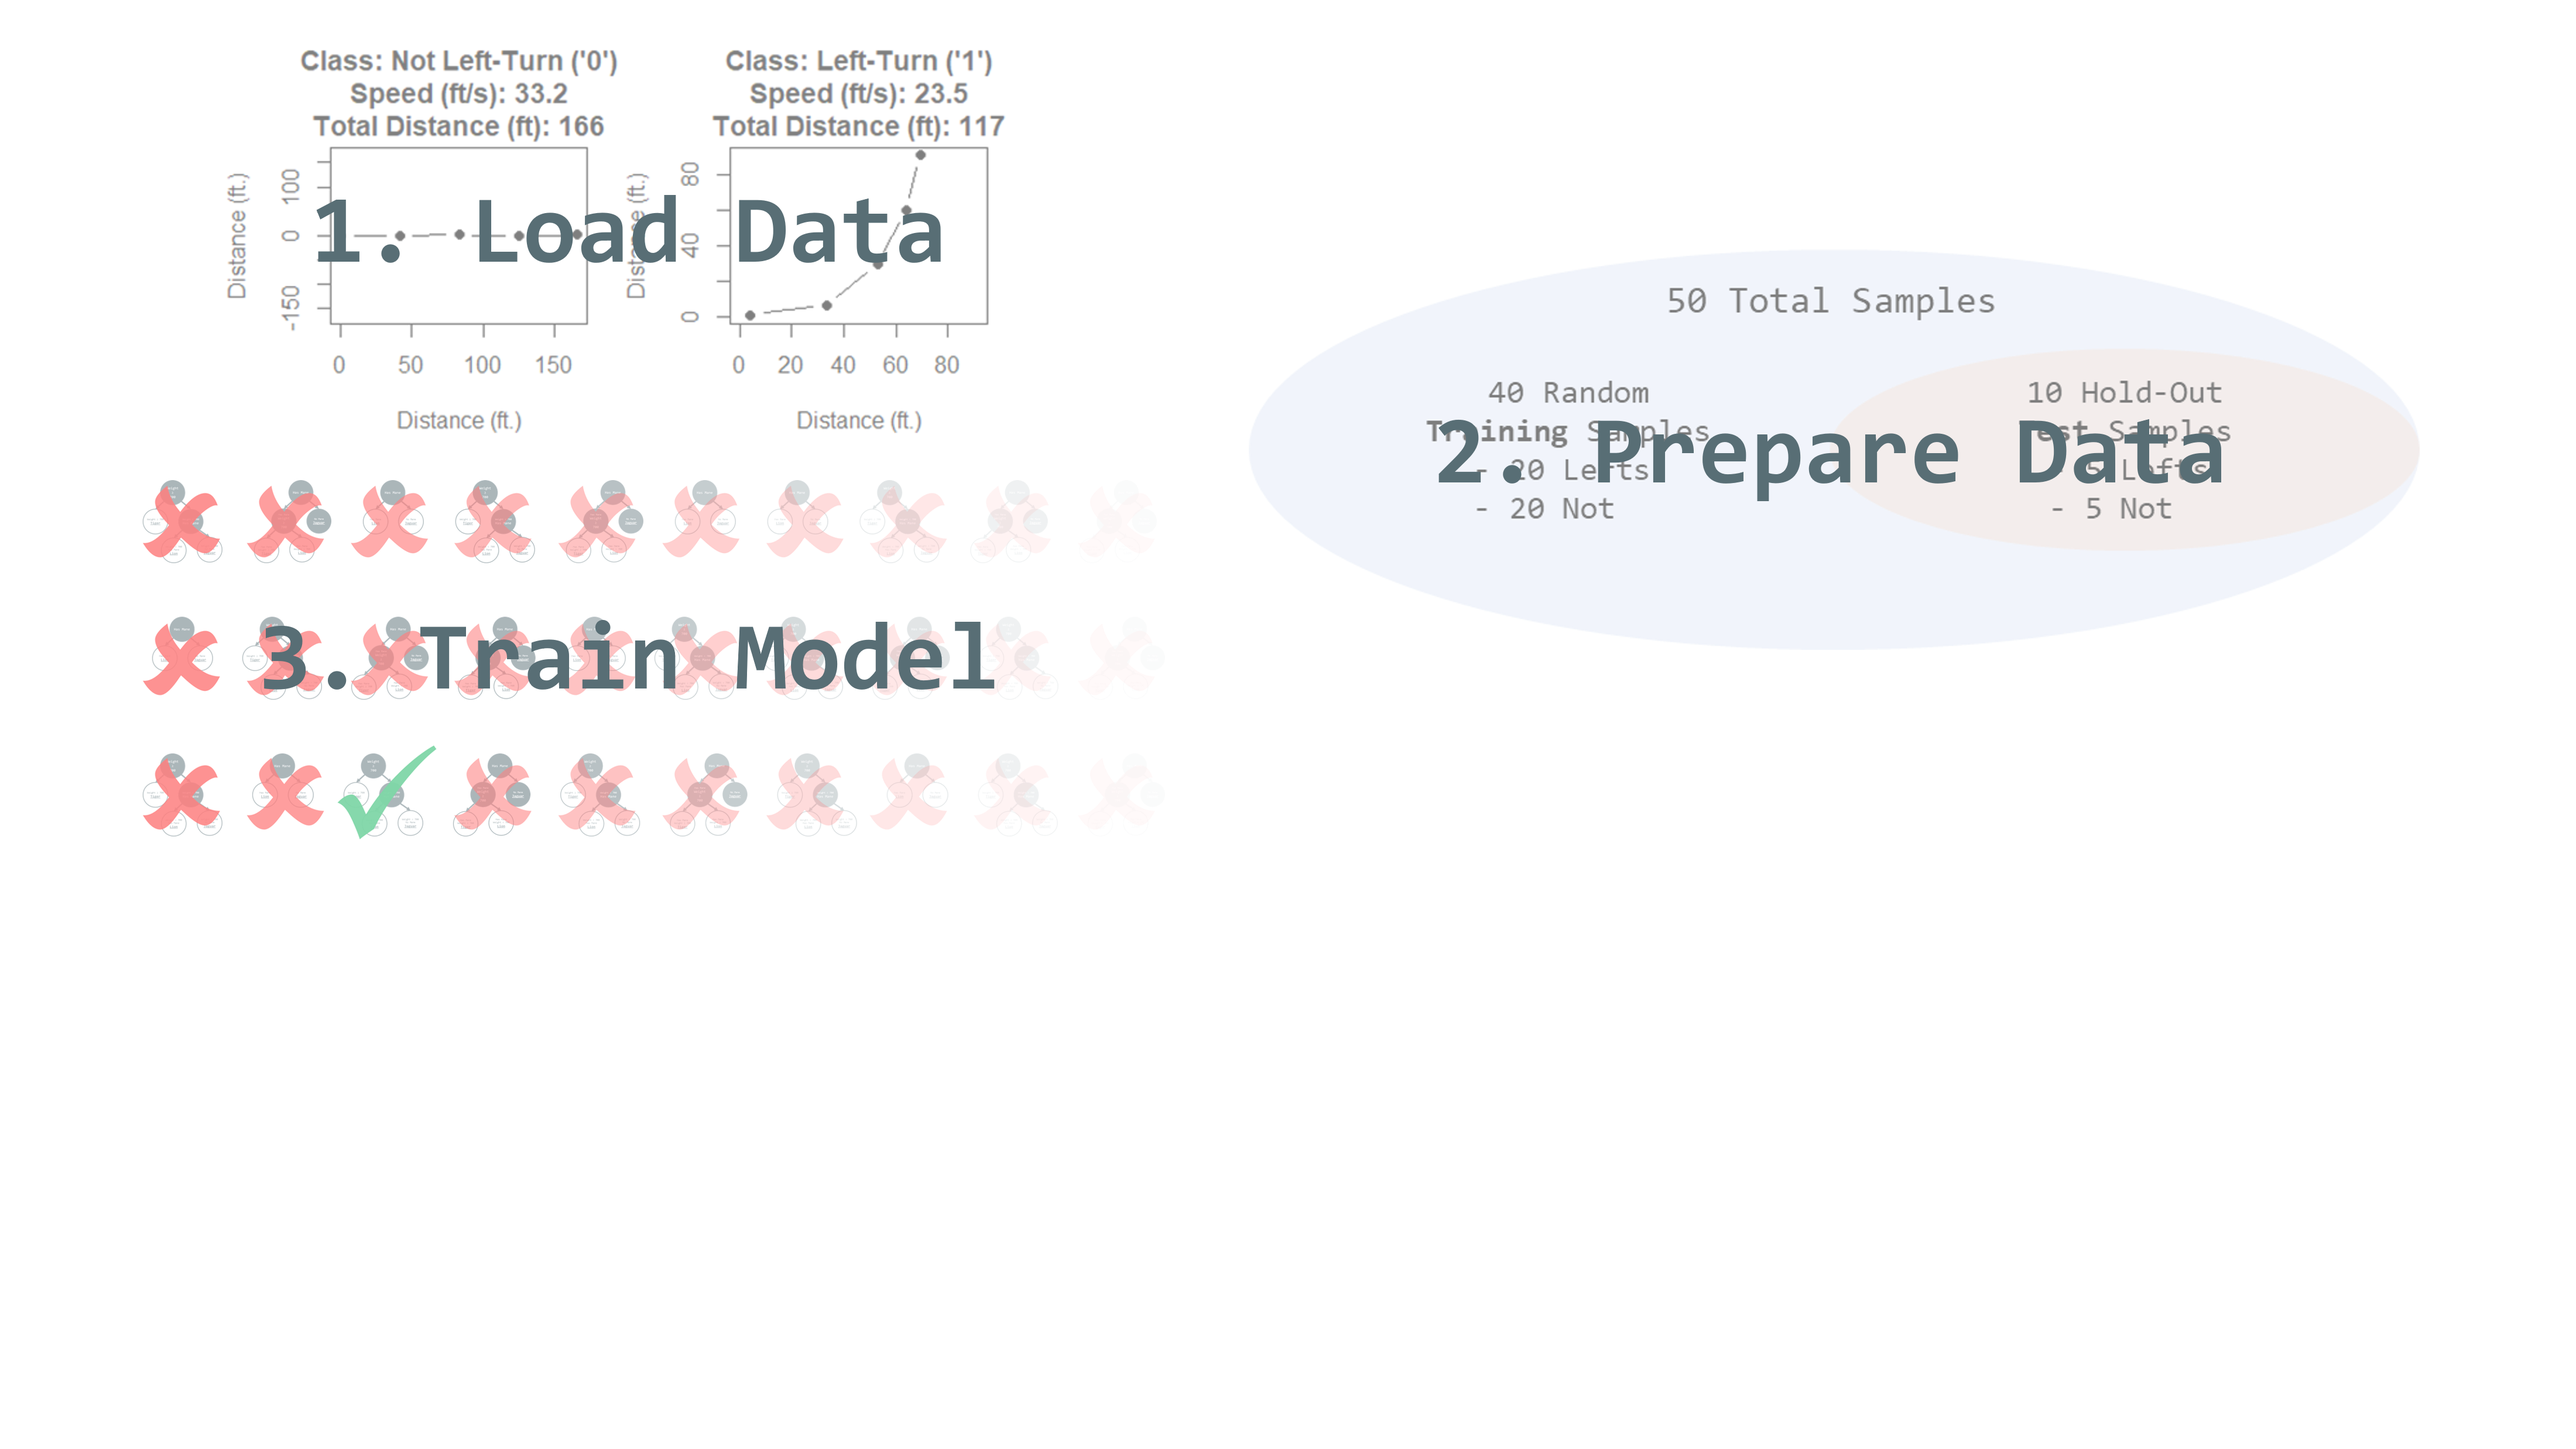
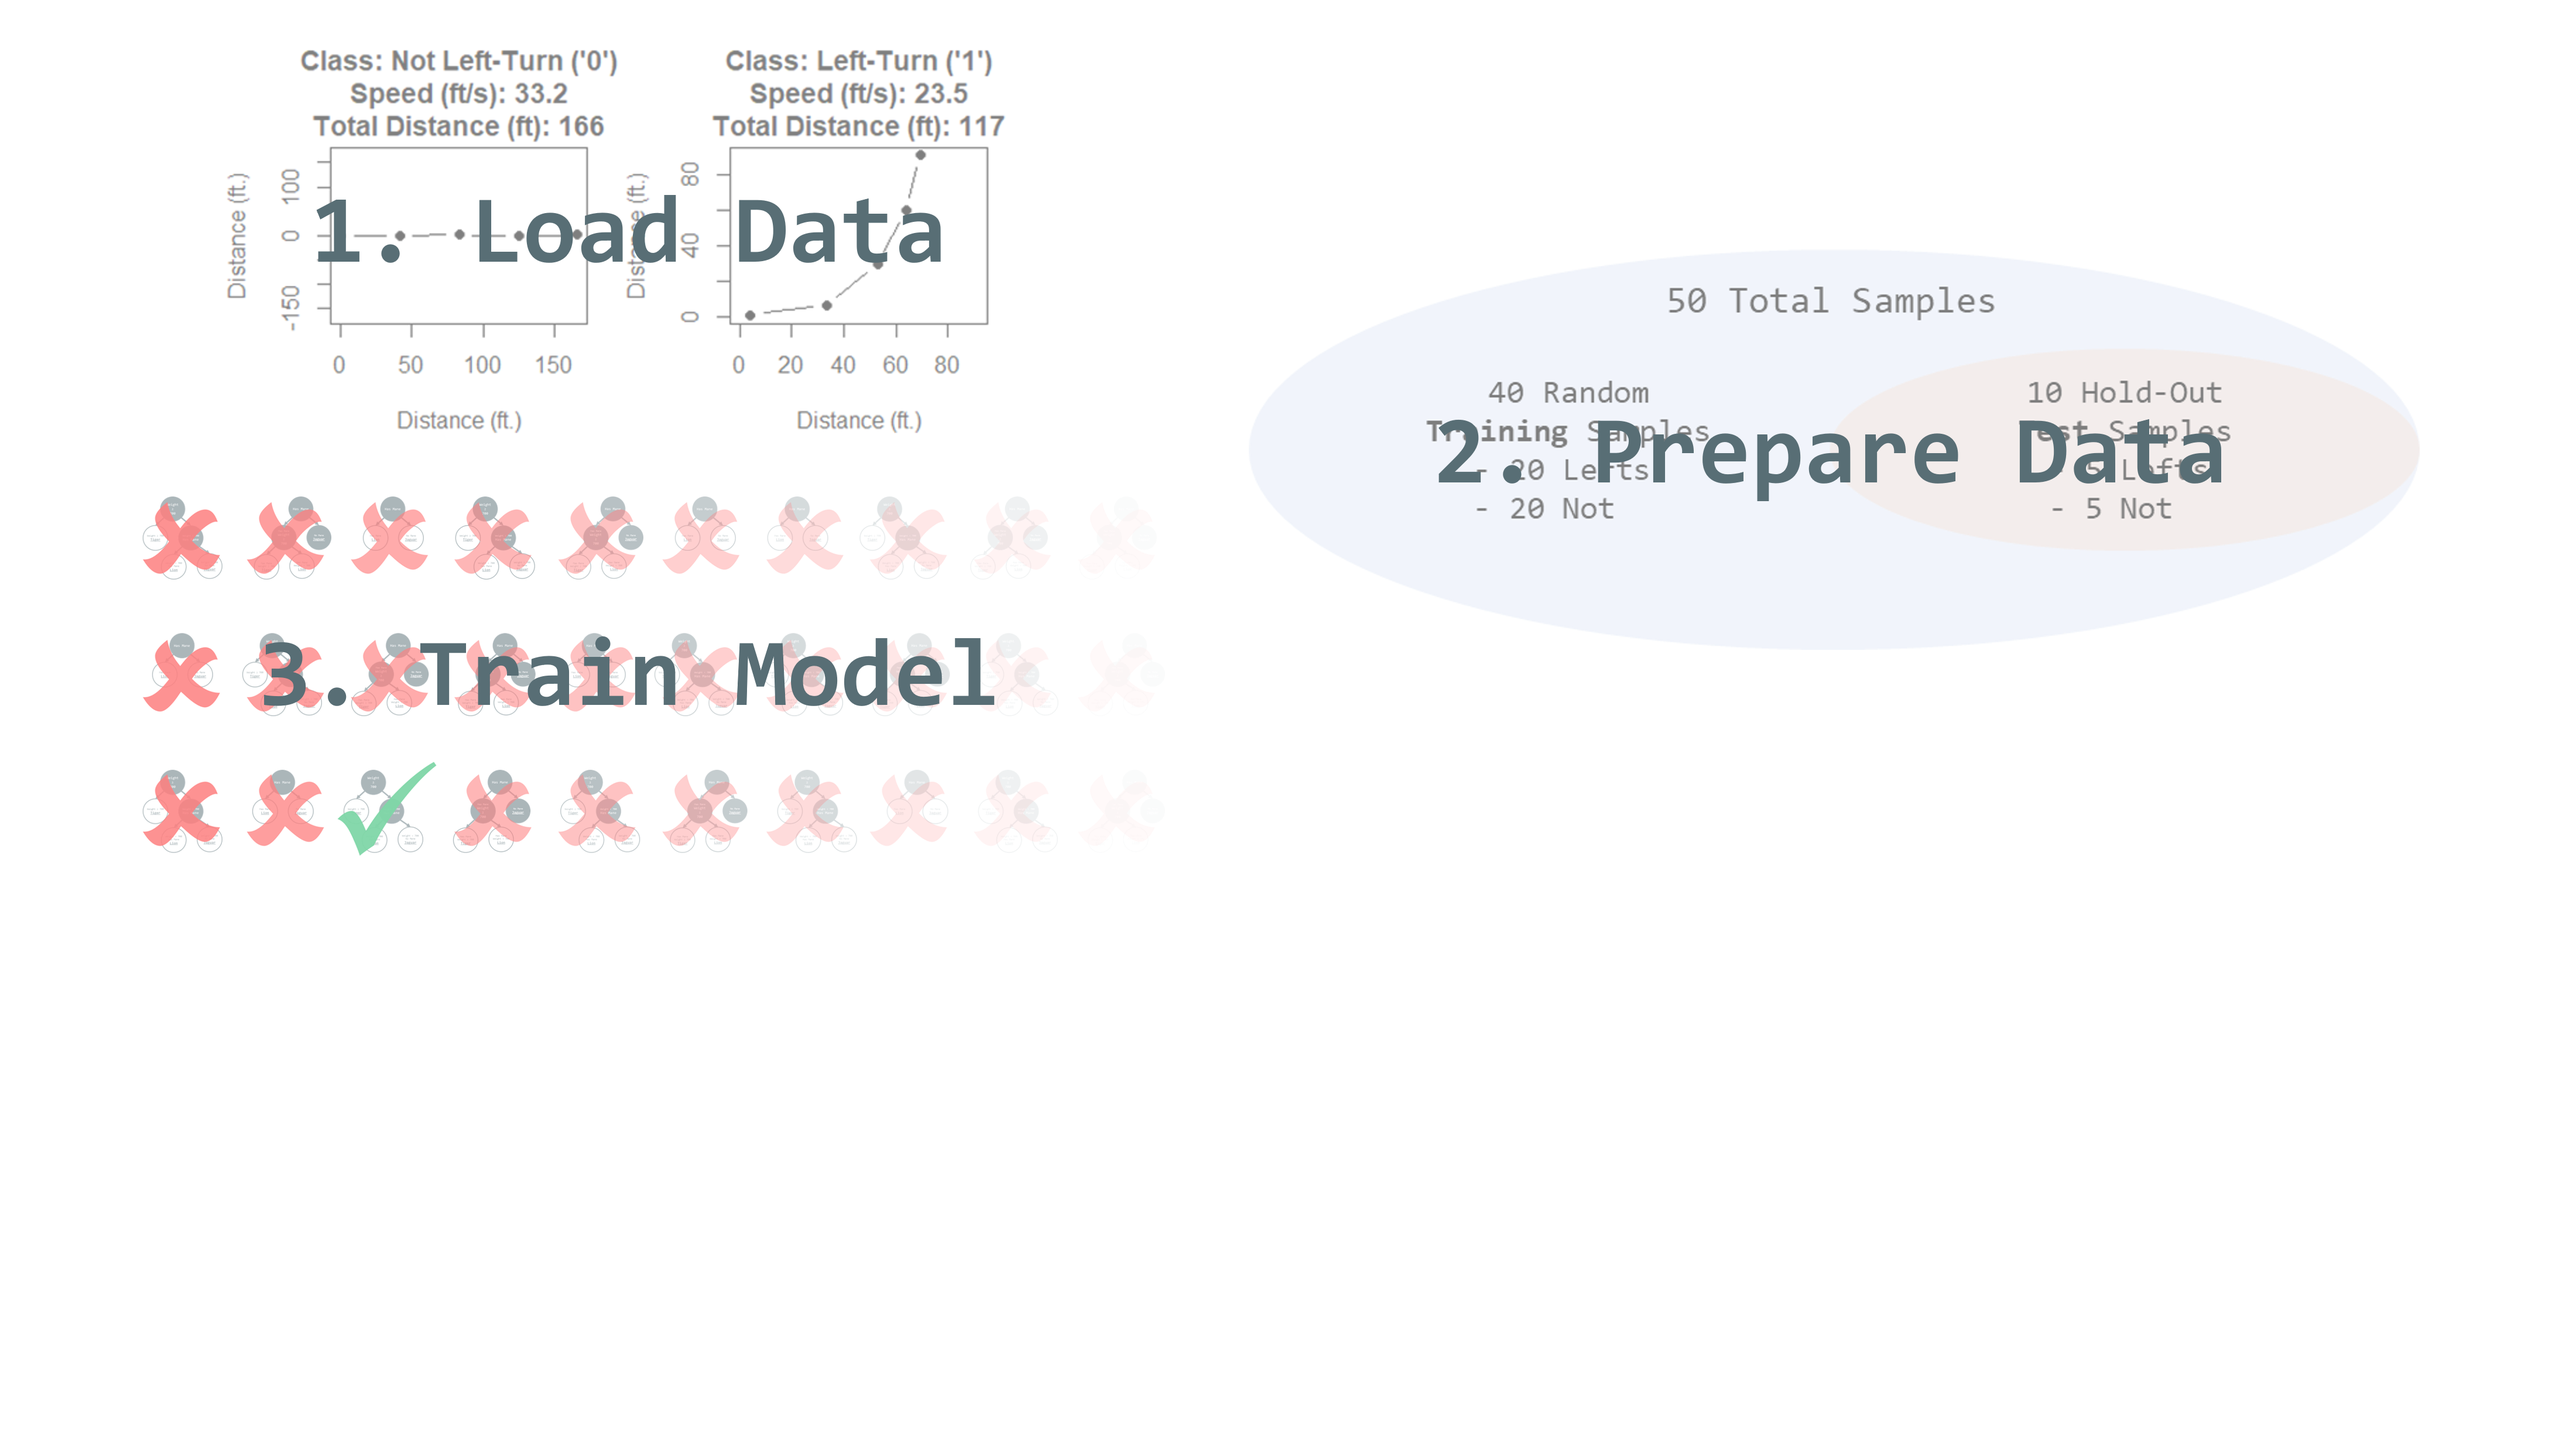
Adding navigation instructions on first slide, fixing confusion matrix slide typo, text and image position adjustments.

Changed region(s): [[0.0311, 0.3111, 0.4048, 0.4978], [0.0311, 0.5289, 0.3736, 0.5911]]

diff --git a/usct_s3e1.html b/usct_s3e1.html
@@ -400,7 +400,7 @@
 <font size="6">Athit Kao, PhD</font> 
 </div>
         <p class="quarto-title-affiliation">
-            <font size="4">Raytheon | An RTX Business</font><br><font size="2"><em>DISCLAIMER: Opinions expressed within this presentation are solely the author’s and do not reflect the opinions and beliefs of RTX or its affiliates.</em></font>
+            <font size="4">Raytheon | An RTX Business</font><br><font size="2"><em>DISCLAIMER: Opinions expressed within this presentation are solely the author’s and do not reflect the opinions and beliefs of RTX or its affiliates.</em></font><br><code><font size="4" color="#FF0000">↙ Click ≡ for menu or use arrow keys (← &amp; →) to navigate between slides</font></code>
           </p>
     </div>
 </div>
@@ -423,7 +423,7 @@
 <li>Ensure a good start on your journey</li>
 <li>Answering your questions</li>
 </ul>
-<br> <br>
+<p><br></p>
 <h2>
 Prerequisites
 </h2>
@@ -598,7 +598,7 @@ Prerequisites
 </section>
 <section id="what-is-machine-learning" class="slide level2">
 <h2>What is Machine Learning?</h2>
-<br> <br> <br>
+<p><br> <br> <br></p>
 <center>
 <b>An algorithm that<br>consumes data and automagically<br>classifies it</b>
 </center>
@@ -649,19 +649,17 @@ Prerequisites
 <img data-src="./usct_s3e1_files/img/linear_regression_11.png" class="r-stretch"></section>
 <section id="what-is-a-model" class="slide level2">
 <h2>What is a Model?</h2>
-   
+<br> <br>
 <center>
 <b>Algorithms</b> are procedures taken to complete a task
 </center>
- 
 <center>
 <em>The linear regression algorithm calculated the best linear model</em>
 </center>
-<br>  
+<br>
 <center>
 <b>Models</b> are created by algorithms and define relationships
 </center>
- 
 <center>
 <em>Relationship between size and weight is described by the model</em>
 </center>
@@ -851,7 +849,7 @@ Prerequisites
 <h1>
 <strong>Congratulations!!!</strong>
 </h1>
-<img src="./usct_s3e1_files/img/congratulations.gif" width="55%"> <br>You’ve built your first machine-learned model from scratch!
+<p><img src="./usct_s3e1_files/img/congratulations.gif" width="55%"> <br>You’ve built your first machine-learned model from scratch!</p>
 </center>
 </section>
 <section id="retrospective" class="slide level2">
@@ -1007,32 +1005,32 @@ This is related to the performance of your models
 <section id="supplemental-statistics" class="slide level2">
 <h2>Supplemental: <em>Statistics</em></h2>
 <center>
-<br>
+<p><br></p>
 <h1>
 p-value
 </h1>
-<strong>Indicated likelihood that an outcome (e.g., a prediction) is the result of chance</strong>
+<p><strong>Indicated likelihood that an outcome (e.g., a prediction) is the result of chance</strong></p>
 </center>
 </section>
 <section id="supplemental-statistics-1" class="slide level2" data-visibility="uncounted">
 <h2>Supplemental: <em>Statistics</em></h2>
 <center>
-<br>
+<p><br></p>
 <h1>
 p-value
 </h1>
-<strong>Indicated likelihood that an outcome (e.g., a prediction) is the result of chance</strong> <br> <br> <font size="6">A p-value of 0.05 (5%) means that you accept an outcome of being wrong<br>1 out of 20 times (e.g., seemingly “high” performing model that mispredicts)
+<p><strong>Indicated likelihood that an outcome (e.g., a prediction) is the result of chance</strong> <br> <br> <font size="6">A p-value of 0.05 (5%) means that you accept an outcome of being wrong<br>1 out of 20 times (e.g., seemingly “high” performing model that mispredicts)</font></p><font size="6">
 </font></center><font size="6">
 </font><p><font size="6"></font></p>
 </section>
 <section id="supplemental-statistics-2" class="slide level2" data-visibility="uncounted">
 <h2>Supplemental: <em>Statistics</em></h2>
 <center>
-<br>
+<p><br></p>
 <h1>
 p-value
 </h1>
-<strong>Indicated likelihood that an outcome (e.g., a prediction) is the result of chance</strong> <br> <br> <font size="6">A p-value of 0.05 (5%) means that you accept an outcome of being wrong<br>1 out of 20 times (e.g., seemingly “high” performing model that mispredicts) <br><br> What does this mean if you’re validating millions of models?<br><font size="5">(Answer: Use <strong>multiple testing correction</strong> on your p-value threshold)</font></font>
+<p><strong>Indicated likelihood that an outcome (e.g., a prediction) is the result of chance</strong> <br> <br> <font size="6">A p-value of 0.05 (5%) means that you accept an outcome of being wrong<br>1 out of 20 times (e.g., seemingly “high” performing model that mispredicts) <br><br> What does this mean if you’re validating millions of models?<br><font size="5">(Answer: Use <strong>multiple testing correction</strong> on your p-value threshold)</font></font></p>
 </center>
 </section></section>
 <section id="the-end" class="title-slide slide level1 center">
